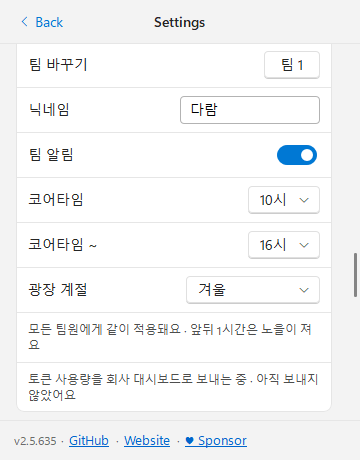
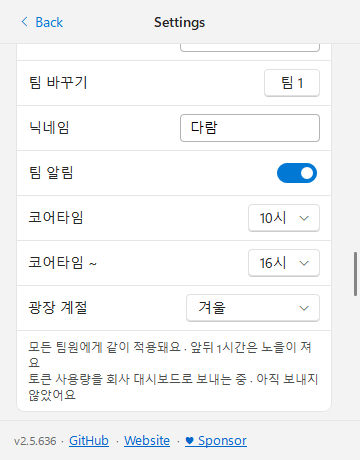
fix(windows): show the usage report line inside the team caption (#318)
* fix(windows): show the usage report line inside the team caption

A row of its own added a window and a divider to the Settings page and pushed
settings.openCost over its paint-frame budget (5 frames, budget 4) in the
v2.5.636 release run. The line now joins the schedule caption's hint as its
second line (SettingsModel.teamCaptionLines), so the page is back to 164 windows
and, like the Mac, has no divider between the two lines.

* docs(team): re-import the Windows team capture with the report line in the caption

From windows-app run 44758347740 (settings.openCost PASS: 164 windows, 4 frames with a paint).

---------

diff --git a/Sources/PokeTokenBar/Platform/Windows/Popover/WinTeamSection.swift b/Sources/PokeTokenBar/Platform/Windows/Popover/WinTeamSection.swift
@@ -55,8 +55,8 @@ import WinSDK
     private let coreStartRow: WinRow
     private let coreEndRow: WinRow
     private let seasonRow: WinRow
+    /// The schedule caption, with the usage-report line under it while the team is ready (`SettingsModel.teamCaptionLines`).
     private let captionRow: WinRow
-    private let reportRow: WinRow
     private let incompatibleRow: WinRow
     /// The `start` the end combo's items were made for.
     private var endItemsStart = -1
@@ -118,12 +118,11 @@ import WinSDK
             WinControls.combo(PlazaSeasonChoice.allCases.map { l.teamSeasonName($0) },
                               selected: PlazaSeasonChoice.allCases.firstIndex(of: rows.season) ?? 0, in: p, ctx: c)
         }
-        captionRow = section.addRow(nil, hint: rows.scheduleCaption) { _, _ in nil }
-        reportRow = section.addRow(nil, hint: SettingsModel.usageReportCaption(lastSent: host.usageReporter?.lastSentAt)) { _, _ in nil }
+        captionRow = section.addRow(nil, hint: Self.caption(rows.scheduleCaption, isReady: team.isReady,
+                                                             lastSent: host.usageReporter?.lastSentAt)) { _, _ in nil }
         incompatibleRow = section.addRow(nil, hint: l.teamIncompatiblePeer) { _, _ in nil }
         for row in [joinErrorRow, nicknameErrorRow, incompatibleRow] { row.hint?.role = .error }
         captionRow.hint?.role = .secondary
-        reportRow.hint?.role = .secondary
         wire()
         apply()
     }
@@ -223,7 +222,6 @@ import WinSDK
         nicknameErrorRow.isVisible = on && rows.nicknameInvalid
         notificationsRow.isVisible = on
         for row in [coreStartRow, coreEndRow, seasonRow, captionRow] { row.isVisible = on && rows.showsSchedule }
-        reportRow.isVisible = on && team.isReady
         incompatibleRow.isVisible = on && rows.incompatiblePeer
 
         set(codeRow.label, rows.maskedCode ?? " ")
@@ -245,8 +243,7 @@ import WinSDK
         }
         let seasonIndex = PlazaSeasonChoice.allCases.firstIndex(of: rows.season) ?? 0
         if let season = seasonRow.control, season.selection != seasonIndex { season.selection = seasonIndex }
-        set(captionRow.hint, rows.scheduleCaption)
-        set(reportRow.hint, SettingsModel.usageReportCaption(lastSent: host.usageReporter?.lastSentAt))
+        set(captionRow.hint, Self.caption(rows.scheduleCaption, isReady: team.isReady, lastSent: host.usageReporter?.lastSentAt))
         if team.savedTeams.map(\.code) != savedKeys { rebuild() }
         return textChanged
     }
@@ -344,6 +341,11 @@ import WinSDK
     }
     var savedRowsForTesting: [WinRow] { savedRows.map(\.row) }
     var coreRowsForTesting: [WinRow] { [coreStartRow, coreEndRow, seasonRow, captionRow] }
+
+    /// The caption hint's text: its lines on separate lines of the one Static (CR LF breaks a wrapping `SS_LEFT` label).
+    static func caption(_ schedule: String, isReady: Bool, lastSent: Date?) -> String {
+        SettingsModel.teamCaptionLines(schedule: schedule, isReady: isReady, lastSent: lastSent).joined(separator: "\r\n")
+    }
     var incompatibleRowForTesting: WinRow { incompatibleRow }
     func joinForTesting() { join() }
 }

diff --git a/Tests/PokeTokenBarTests/SettingsModelTests.swift b/Tests/PokeTokenBarTests/SettingsModelTests.swift
@@ -117,6 +117,15 @@ final class SettingsModelTests: XCTestCase {
                        "토큰 사용량을 회사 대시보드로 보내는 중 · 마지막으로 보낸 시각 \(l.teamScheduleDate(at))")
     }
 
+    func testTheReportLineFollowsTheScheduleCaptionOnlyWhileTheTeamIsReady() async {
+        let at = Date(timeIntervalSince1970: 1_800_000_000)
+        XCTAssertEqual(SettingsModel.teamCaptionLines(schedule: "S", isReady: false, lastSent: at), ["S"])
+        XCTAssertEqual(SettingsModel.teamCaptionLines(schedule: "S", isReady: true, lastSent: at),
+                       ["S", SettingsModel.usageReportCaption(lastSent: at)])
+        XCTAssertEqual(SettingsModel.teamCaptionLines(schedule: "S", isReady: true, lastSent: nil),
+                       ["S", SettingsModel.usageReportCaption(lastSent: nil)])
+    }
+
     // MARK: Windows wording (D13, P14)
 
     /// P14: with no sign-in file a user refresh ends in "no Keychain item" on Windows; the store words it as the missing

diff --git a/Sources/PokeTokenBar/Popover/SettingsModel.swift b/Sources/PokeTokenBar/Popover/SettingsModel.swift
@@ -89,6 +89,13 @@ enum SettingsModel {
     @MainActor static func usageReportCaption(lastSent: Date?, l: L = L(.ko)) -> String {
         l.teamUsageReportCaption(lastSent: lastSent)
     }
+
+    /// The lines under the team schedule: its caption, then the usage-report line while the team is ready. The Mac shows
+    /// them as two texts with no divider; Windows joins them in the caption's one hint, because a row of its own added a
+    /// window and a divider and pushed `settings.openCost` over its paint-frame budget (defect log, 2026-11-20).
+    @MainActor static func teamCaptionLines(schedule: String, isReady: Bool, lastSent: Date?, l: L = L(.ko)) -> [String] {
+        isReady ? [schedule, usageReportCaption(lastSent: lastSent, l: l)] : [schedule]
+    }
 }
 
 // --- stage 7 Task 14: the Advanced group and the tracked account (begin) ---

diff --git a/docs/reference/defect-log.md b/docs/reference/defect-log.md
@@ -3378,3 +3378,11 @@ read_when:
 - **고침:** 두 모델의 줄 추가(공식 가격표 2026-11-20 확인: Fable 5.2 $8/$40/$10/$0.20, Haiku 5.5 $0.10/$0.50/$0.125/$0.01). Haiku 5.5 는 프롬프트가 100,000 토큰을 넘으면 모든 항목이 5배라 `estimatedCost` 에 그 단계를 넣었다.
 - **영구 캡처:** `testFable52AndHaiku55Rates`(100,000 경계 양쪽), `testModelsReadFromProviderLogsAreAllPriced` 목록에 두 이름 추가. 줄을 넣기 전 4건 실패를 확인했다.
 - **규칙:** 릴리스 전에 릴리스 맥의 앱 로그에서 `Unpriced model` 을 grep 한다. 나오면 그 릴리스에 가격 줄을 넣는다.
+
+## 윈도 설정에 행 하나를 더했더니 페이지 열기 비용 예산을 넘었다 (v2.5.636 릴리스 실행, 2026-11-20)
+- **증상:** v2.5.636 릴리스의 windows-app 실행(44748321973)이 `settings.openCost` 에서 멈췄다: Home → Settings 전환이 "5 frames with a paint (budget 4)". 공개된 것은 없다.
+- **직접 원인:** #311 이 팀 카드에 사용량 보고 줄을 **자기 행**(Static 하나 + 구분선)으로 더했다. 설정 페이지의 창이 164 → 165 개가 되고, 전환 때 그려지는 프레임이 3–4 에서 3–5 로 퍼졌다. #311 이전 실행 9개는 모두 3–4(예산 4 의 가장자리), 이후 4개는 3·3·5·5.
+- **왜 못 걸렀나:** ① PR 실행 두 번은 우연히 3 프레임으로 통과했다. ② 브랜치의 첫 windows-app 실행(44707310118)은 `FAIL settings.openCost` 를 찍었지만 그 모드에서는 이 검사가 잡을 막지 않아 잡은 초록이었고, 잡 결론만 읽고 셀프테스트의 개별 결과는 읽지 않았다. ③ 리뷰는 "맥과 같은 문구·위치"만 보고 Win32 에서 행 하나가 창 하나와 구분선 하나라는 비용은 보지 않았다.
+- **고침:** 보고 줄을 일정 캡션과 **같은 힌트**의 둘째 줄로 넣는다(`SettingsModel.teamCaptionLines`, `WinTeamSection.caption` 이 CR LF 로 잇는다). 창 수는 다시 164 개이고, 맥처럼 두 줄 사이에 구분선이 없다(전의 별도 행은 맥에 없는 구분선을 그렸다).
+- **영구 캡처:** `SettingsModelTests.testTheReportLineFollowsTheScheduleCaptionOnlyWhileTheTeamIsReady`. 예산 자체는 `settings.openCost` 가 이미 지킨다 — 릴리스 모드가 막는다.
+- **규칙:** 윈도 팝오버 페이지에 행을 더하기 전에, 기존 행의 힌트나 라벨에 넣을 수 있는지 먼저 본다. 행을 더했다면 PR 의 windows-app 실행에서 `settings.openCost`·`popover.swapCost` 줄의 `frames with a paint`·`windows made` 를 직접 읽는다(잡이 초록이어도).
